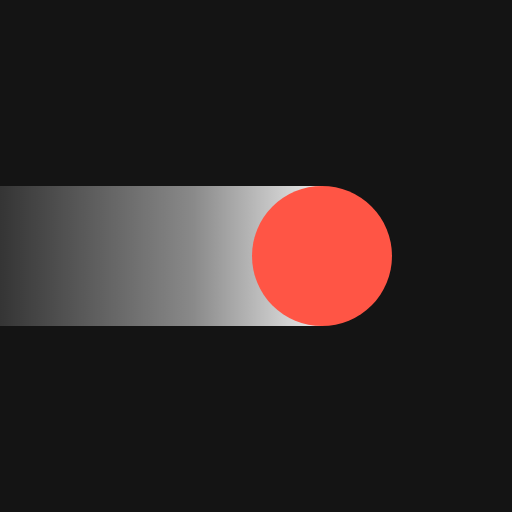
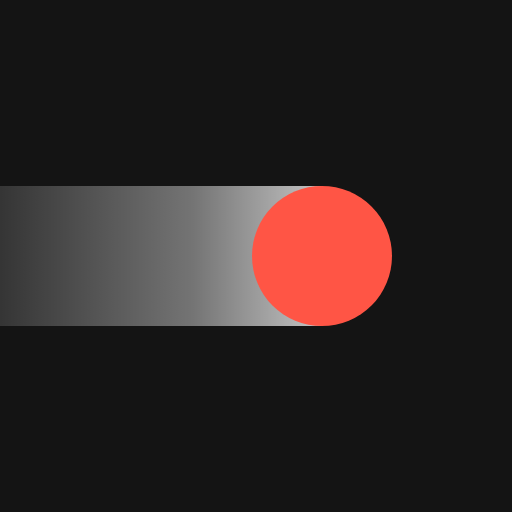
[Tachyon] 디자인: 로고 점 색 고침(사람 00:21 '라이트 모드에서 까매 보임') — 밝은 바탕 #ec4227, 띠 머리 쪽 75%
Claude-Session: https://claude.ai/code/session_01TS8TbNAsVeBndy4TAYE5Ea

Changed region(s): [[0.4062, 0.3438, 0.5938, 0.6562]]

diff --git a/docs/tachyon/디자인/로고/Logo.jsx b/docs/tachyon/디자인/로고/Logo.jsx
@@ -1,5 +1,5 @@
 // Tachyon 로고(디자인 A18-1, 11-12 사람이 고름): 점이 왼쪽 벽에서 나와 오른쪽으로 가며 점 지름만큼 굵은 띠를 남긴다.
-// 색은 테마 값: 띠 = --text(벽 쪽으로 옅어짐), 점 = --now(지금 색), 글자 = --heading. 그래서 테마를 바꾸면 로고도 같이 바뀐다.
+// 색: 띠 = --text(벽 쪽으로 옅어짐), 글자 = --heading(테마를 따름). 점 = 로고 빨강 하나(밝은 테마 #ec4227, 어두운 테마 #ff5545 — 테마의 color-scheme으로 light-dark()가 고른다).
 // 띠는 담긴 칸의 왼쪽 끝(벽)에 닿아야 한다: 로고를 감싼 칸의 왼쪽 안쪽 여백을 0으로(디자인_가이드 '로고·아이콘').
 // 글자는 Jost 600(SIL OFL 1.1)을 선으로 바꾼 것이라 글꼴 파일이 없어도 같다. 원본: docs/tachyon/디자인/로고/logo.svg
 import { useId } from 'react';
@@ -13,12 +13,12 @@ export default function Logo({ height = 24 }) {
       <defs>
         <linearGradient id={id} x1="0" y1="0" x2="66" y2="0" gradientUnits="userSpaceOnUse">
           <stop offset="0" style={{ stopColor: 'var(--text)', stopOpacity: 0.14 }} />
-          <stop offset="0.6" style={{ stopColor: 'var(--text)', stopOpacity: 0.5 }} />
-          <stop offset="1" style={{ stopColor: 'var(--text)', stopOpacity: 0.92 }} />
+          <stop offset="0.6" style={{ stopColor: 'var(--text)', stopOpacity: 0.41 }} />
+          <stop offset="1" style={{ stopColor: 'var(--text)', stopOpacity: 0.75 }} />
         </linearGradient>
       </defs>
       <rect x="0" y="18" width="66" height="28" fill={`url(#${id})`} />
-      <circle cx="66" cy="32" r="14" style={{ fill: 'var(--now)' }} />
+      <circle cx="66" cy="32" r="14" style={{ fill: 'light-dark(#ec4227, #ff5545)' }} />
       <path d={WORD} style={{ fill: 'var(--heading)' }} />
     </svg>
   );

diff --git a/docs/tachyon/디자인/로고/README.md b/docs/tachyon/디자인/로고/README.md
@@ -4,7 +4,7 @@
 
 ![로고와 아이콘](미리보기_로고_아이콘.png)
 
-- **로고 = A18-1.** 점(입자)이 왼쪽 벽에서 나와 오른쪽으로 가며, 점 지름만큼 굵은 띠를 남긴다. 띠는 벽 쪽으로 옅어진다(머리 쪽 92% → 벽 14%). 점 지름 = 글자의 대문자 높이, 점 가운데 = 대문자 높이 가운데. 점은 빨강(앱의 '지금' 색)이다.
+- **로고 = A18-1.** 점(입자)이 왼쪽 벽에서 나와 오른쪽으로 가며, 점 지름만큼 굵은 띠를 남긴다. 띠는 벽 쪽으로 옅어진다(머리 쪽 75% → 벽 14%). 점 지름 = 글자의 대문자 높이, 점 가운데 = 대문자 높이 가운데. 점은 로고 빨강 하나: 밝은 바탕 #ec4227, 어두운 바탕 #ff5545(11-12 00:21 사람 '라이트 모드에서 빨간 점이 좀 까매 보임' → 앱의 '지금' 색 #c4321e보다 밝게, 띠 머리 쪽도 92% → 75%로 옅게 해서 점과 띠가 갈리게).
 - **앱 아이콘 = I1.** 같은 모양을 타일에 그렸다. 점 지름 = 타일 폭의 27%(512 기준 반지름 70, 가운데 x 322). 띠는 타일 왼쪽 벽까지 닿는다. 어두운 타일 #141414, 흰 띠, 빨간 점 #ff5545.
 - 글자는 Jost 600(SIL OFL 1.1, github.com/indestructible-type/Jost)을 선으로 바꾼 것이라 글꼴이 없어도 똑같다. 로고 그림에 글꼴 윤곽을 쓰는 것은 OFL이 허락한다.
 
@@ -19,14 +19,14 @@
 | `apple-touch-icon.png` | 같은 이름으로. 180, 꽉 찬 사각(아이폰이 모서리를 깎는다) |
 | `icon-light.svg` | 밝은 타일 판. 지금은 안 쓴다 |
 | `logo.svg` · `logo-dark.svg` | 밝은·어두운 바탕용 로고(문서·발표 자료). 띠는 그림 왼쪽 끝(= 벽)에서 시작 |
-| `Logo.jsx` | 앱 안 로고 컴포넌트 초안 → `web/src/components/Logo.jsx`. 색은 테마 값: 띠 `--text`, 점 `--now`, 글자 `--heading`. 테마를 바꾸면 로고도 같이 바뀐다 |
+| `Logo.jsx` | 앱 안 로고 컴포넌트 초안 → `web/src/components/Logo.jsx`. 띠 `--text`, 글자 `--heading`은 테마를 따르고, 점은 `light-dark(#ec4227, #ff5545)`(테마의 color-scheme으로 고름) |
 | `미리보기_로고_아이콘.png` · `미리보기_앱안.png` | 확인 그림(앱 안 그림은 예시 자료, 바우하우스 · 입자 밤) |
 
 ## 쓰는 규칙
 
 - 띠는 늘 담긴 칸의 **왼쪽 벽에 닿는다.** 칸의 왼쪽 안쪽 여백만큼 로고를 당긴다(아래 CSS).
 - 띠 굵기 = 점 지름. 늘이거나 눌러 비율을 바꾸지 않는다. 로고 파일의 띠 길이(벽 → 점 왼쪽 끝)는 점 지름의 약 1.9배다.
-- 점 색은 '지금' 색 하나. 다른 색으로 바꾸지 않는다.
+- 점 색은 로고 빨강 하나(밝은 바탕 #ec4227 · 어두운 바탕 #ff5545). 다른 색으로 바꾸지 않는다. 그래픽이라 흰 바탕 3.9:1(표시 3:1 넘김).
 - 로고 높이는 20px 이상. 둘레(오른쪽 · 위 · 아래)는 점 지름만큼 비운다. 왼쪽은 벽이다.
 
 ## 화면 세션이 붙이는 법

diff --git a/docs/tachyon/소통.md b/docs/tachyon/소통.md
@@ -902,3 +902,8 @@ dhsrua555 사람이 제안했다. archi142857 사람도 Ultra라면 구독 월 A
 - **사람이 고름:** 로고 = A18-1, 앱 아이콘 = I1. 점(입자)이 왼쪽 벽에서 나와 오른쪽으로 가며 점 지름만큼 굵은 띠를 남기고, 띠는 벽 쪽으로 옅어진다. 점은 '지금' 색. 그림: [로고 · 아이콘](디자인/로고/미리보기_로고_아이콘.png) · [앱 안](디자인/로고/미리보기_앱안.png).
 - **→ 화면(파일은 [디자인/로고/](디자인/로고/README.md)):** ① 아이콘 여섯 개를 `web/public/icons/`에 같은 이름으로 덮어쓰기(지금 파란 달력 아이콘 → 어두운 타일 + 띠 + 빨간 점). `sw.js`가 아이콘을 캐시하면 캐시 이름 올리기. ② `Logo.jsx`를 `web/src/components/`로, `<h1 className="wordmark">Tachyon</h1>` 네 곳(TopBar · Login · Dashboard 왼쪽 메뉴 · 폰 위 막대)을 `<h1 className="wordmark"><Logo height={…} /></h1>`로(위 막대 22~24, 메뉴 26, 로그인 40). 색은 테마 값(`--text` 띠, `--now` 점, `--heading` 글자)이라 테마 일곱 개에서 같이 바뀐다. ③ 띠가 칸의 왼쪽 벽에 닿게 왼쪽 여백을 당기는 CSS 다섯 줄(README '화면 세션이 붙이는 법').
 - **확인:** web 사본(00:1x main)에 ①~③을 넣고 `npm test` 81개 통과, `?example` 390×844 · 1366×768, 바우하우스 · 입자 밤에서 화면 오류 없음.
+
+### 11-12 00:24 · archi142857(Claude·디자인) → 화면(컨셉 참고) · 알림: 로고 점 색 고침(사람 00:21) · 답: 디자인 00:20 글
+- **사람 00:21:** "라이트 모드에서 빨간 점이 좀 까매보임." → 밝은 바탕의 점을 #ec4227로 밝히고, 띠 머리 쪽을 92% → 75%로 옅게 해 점과 띠가 갈리게 했다(어두운 바탕 점 #ff5545는 그대로). 앱의 '지금' 색은 그대로다.
+- **→ 화면:** [디자인/로고/](디자인/로고/README.md)의 파일을 같은 이름으로 다시 올렸다. 00:20 글대로 붙일 때 이 판을 쓰면 된다(이미 붙였다면 아이콘 여섯 개와 `Logo.jsx`만 다시 덮어쓰기). `Logo.jsx`의 점은 `var(--now)` 대신 `light-dark(#ec4227, #ff5545)`다.
+

diff --git a/prompts/Tachyon-디자인-05-로고.md b/prompts/Tachyon-디자인-05-로고.md
@@ -43,6 +43,12 @@ A18에서 로고에서는 점 크기가 더 커도 될 것 같음
 아이콘은 I1이 좋은 것 같음. 반영해 줘.
 ````
 
+(11-12 00:21)
+
+````text
+라이트 모드에서 빨간 점이 좀 까매보임.
+````
+
 ## 결과 요약
 
 - 캔버스: [Tachyon 로고 시안](https://claude.ai/artifact/Ni199KuYxKQBMVSS7hEvUv) — 네 가지. 보드마다 밝은·어두운 바탕의 로고(마크 + 글자), 앱 아이콘(512 타일), 작은 크기(60·32·16), 앱 안 왼쪽 메뉴 머리(실제 크기), 움직이는 판(앱을 여는 화면용, 동작 줄이기를 켜면 멈춤).
@@ -59,3 +65,4 @@ A18에서 로고에서는 점 크기가 더 커도 될 것 같음
   - 사람이 A18(옅어지는 먹 띠)을 보고 로고의 점을 키우자고 함 → A18-1·2·3(점 지름 = 대문자 높이 × 1 · 1.3 · 1.6, 점은 대문자 높이 가운데). 아이콘은 그대로.
 - 00:14 로고 = A18-1로 정함. 사람이 말한 '점을 키우자'는 앱 아이콘 이야기라서 아이콘 점 크기 시안(지금 21% · I1 27% · I2 34% · I3 42%)을 A 변주 캔버스에 더함.
 - 00:15 아이콘 = I1. '반영'은 디자인 세션이 web/을 고치지 않는 규칙대로 최종 파일을 만들어 화면 세션에 넘기는 것으로 함: `docs/tachyon/디자인/로고/`에 아이콘 여섯 개(icon.svg · icon-maskable.svg · 192 · 512 · maskable 512 · apple-touch 180, 어두운 타일), logo.svg · logo-dark.svg, 테마 색을 따르는 Logo.jsx 초안, 붙이는 법(README). web 사본에 넣어 `npm test` 81개 통과, `?example` 390 · 1366, 바우하우스 · 입자 밤에서 띠가 벽에 닿는 것을 확인(미리보기 그림 둘).
+- 00:21 '라이트 모드에서 빨간 점이 까매 보임' → 비교 넷(지금 #c4321e · #da3b21 · #da3b21 + 띠 끝 옅게 · #ec4227 + 띠 끝 옅게)을 그려 보고, 밝은 바탕 점 #ec4227 + 띠 머리 쪽 75%로 고침(어두운 바탕 점 #ff5545는 그대로). 앱의 '지금' 색(#c4321e, 글자 4.5:1 때문)은 건드리지 않고, Logo.jsx 점만 `light-dark(#ec4227, #ff5545)`로. 파일 다시 만들고 web 사본에서 다시 봄.

diff --git a/docs/tachyon/디자인/디자인_가이드.md b/docs/tachyon/디자인/디자인_가이드.md
@@ -44,7 +44,7 @@
 
 ## 로고 · 앱 아이콘 (11-12 사람이 고름)
 
-점(입자)이 왼쪽 벽에서 나와 오른쪽으로 가며 점 지름만큼 굵은 띠를 남긴다. 띠는 벽 쪽으로 옅어지고, 점은 '지금' 색(빨강)이다. 로고 = A18-1(점 지름 = 대문자 높이), 앱 아이콘 = I1(점 지름 = 타일의 27%, 어두운 타일). 파일 · 규칙 · 붙이는 법은 [로고/README.md](로고/README.md).
+점(입자)이 왼쪽 벽에서 나와 오른쪽으로 가며 점 지름만큼 굵은 띠를 남긴다. 띠는 벽 쪽으로 옅어지고, 점은 로고 빨강(밝은 바탕 #ec4227, 어두운 바탕 #ff5545)이다. 로고 = A18-1(점 지름 = 대문자 높이), 앱 아이콘 = I1(점 지름 = 타일의 27%, 어두운 타일). 파일 · 규칙 · 붙이는 법은 [로고/README.md](로고/README.md).
 
 ## 화면 세션에 넘길 것 (11-11, ③)
 
